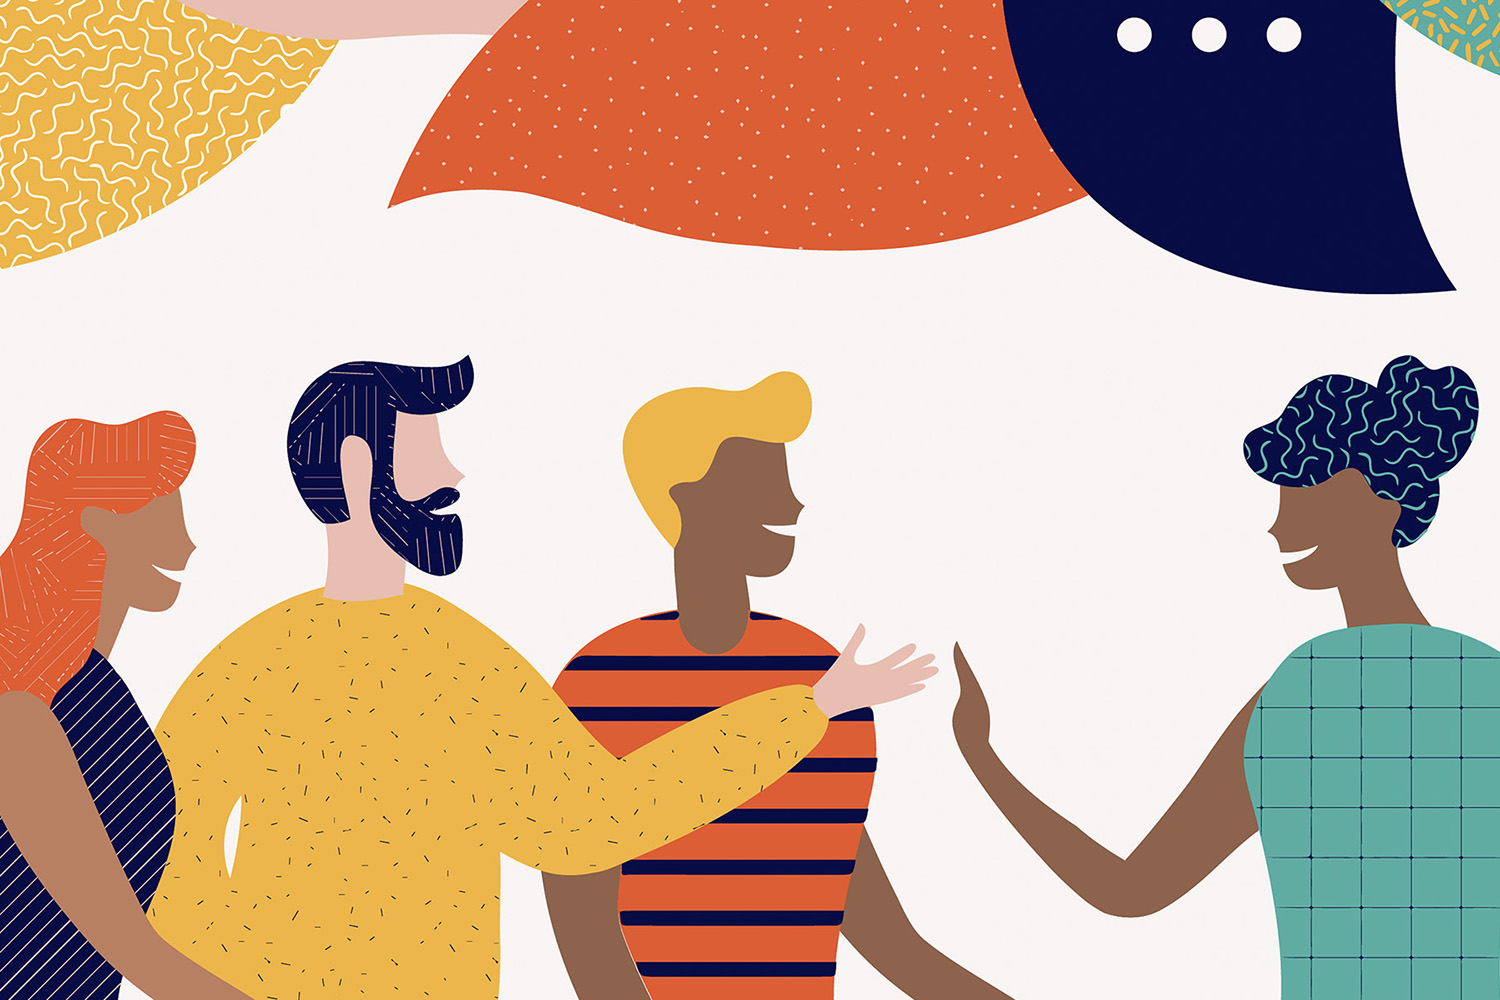
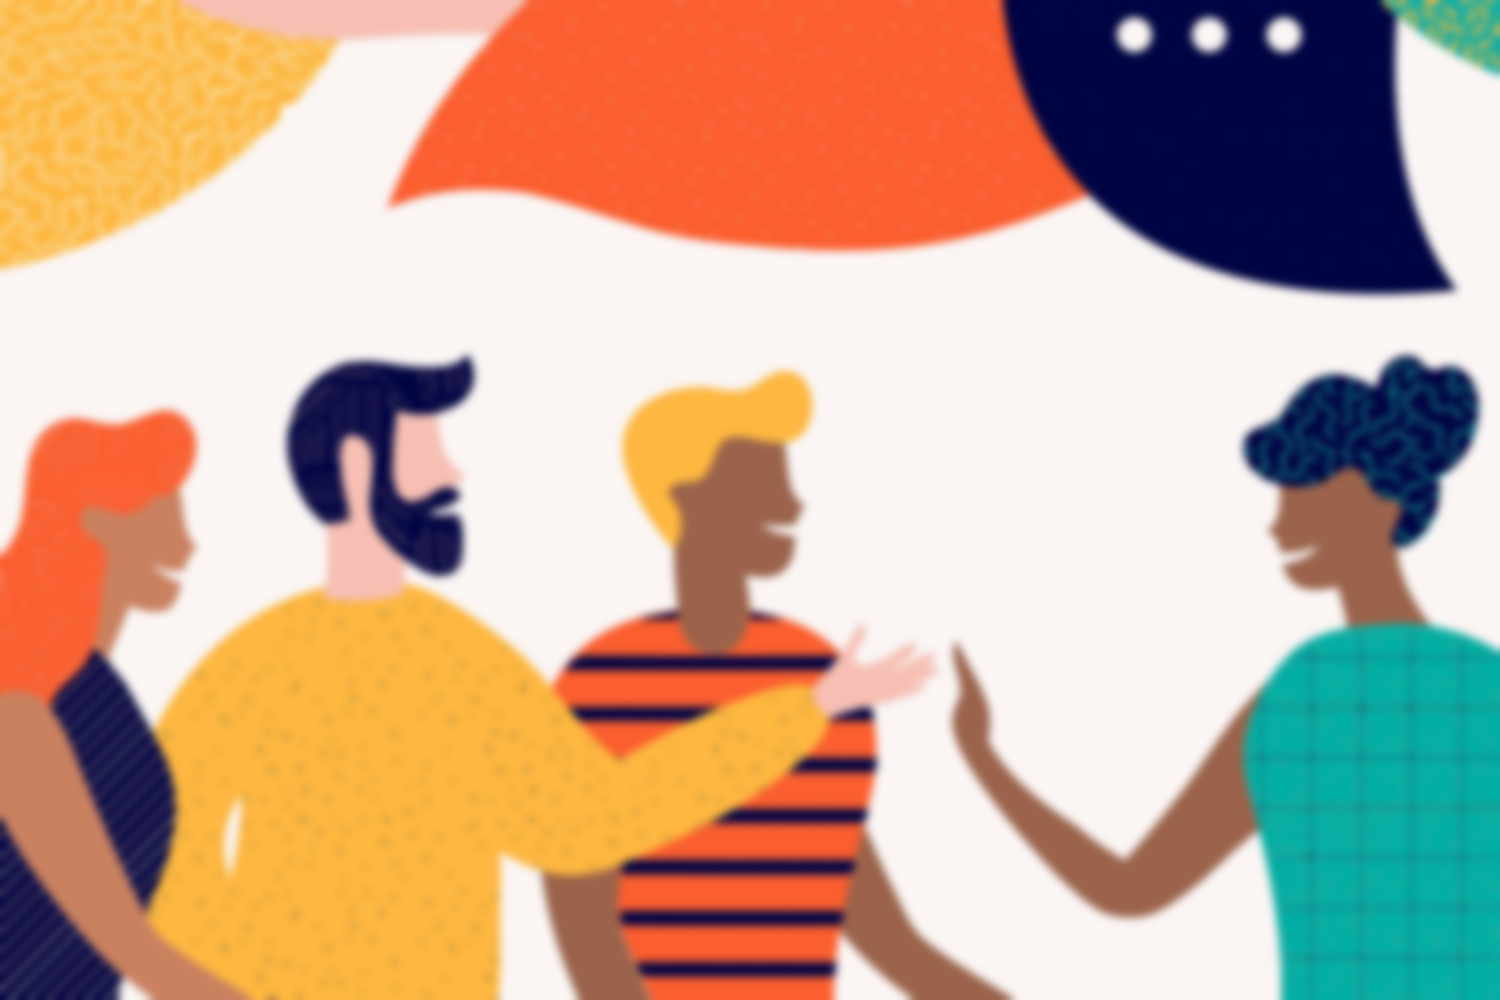
changed blur background

diff --git a/contact us page/style.css b/contact us page/style.css
@@ -30,33 +30,27 @@ nav span {
     text-transform: uppercase;
 }
 
-.header_background {
+ header {
     display: flex;
     background-image: url(language.jpg);
+    justify-content: center;
+    text-align: center;
     background-size: cover;
     background-position: center;
     background-repeat: no-repeat;
-    height: 700px;
-    filter: blur(4px);
-    -webkit-filter: blur(4px);
 }
 
 .text {
-    
     font-weight: bold;
-    position: absolute;
-    top: 70%;
-    left: 50%;
-    transform: translate(-50%, -50%);
-    z-index: 2;
     width: 45%;
-    text-align: center;  
+    margin: 100px auto;
     font-size: 36px;
     color:white;
     -webkit-text-stroke: 2px #00054486 ;
     text-shadow: 1px 1px 1px #00054486, 
                3px 3px 4px #00054486;
 }
+
 
 .text h1 {
     font-size: 40px;

diff --git a/contact us page/index.html b/contact us page/index.html
@@ -21,7 +21,7 @@
     </nav>
 
     <header>
-        <div class="header_background"> </div>
+        <!--<div class="header_background"> </div>-->
         <div class="text">
             <h1>Let’s connect</h1>
             <p> Do you have any questions? Need more information? Would you like to leave feedback? We’re just a click away! </p>
